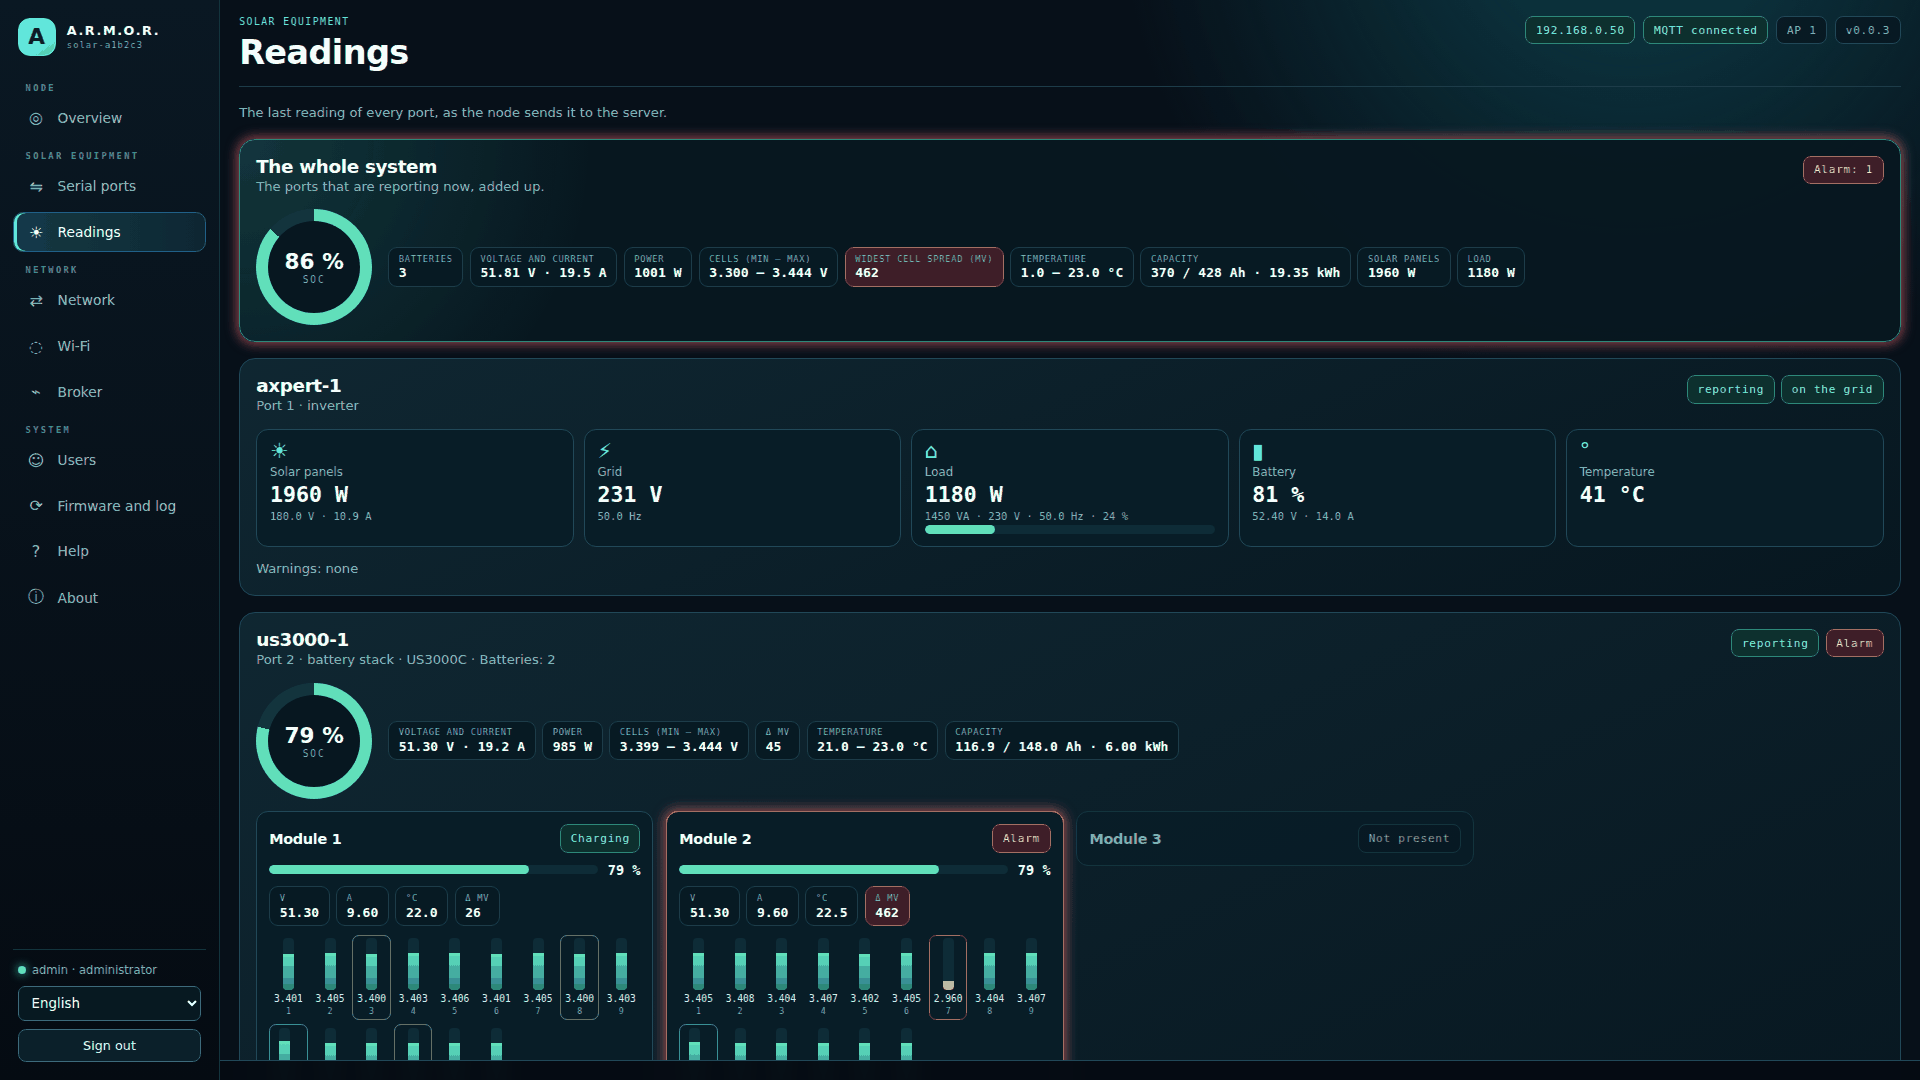
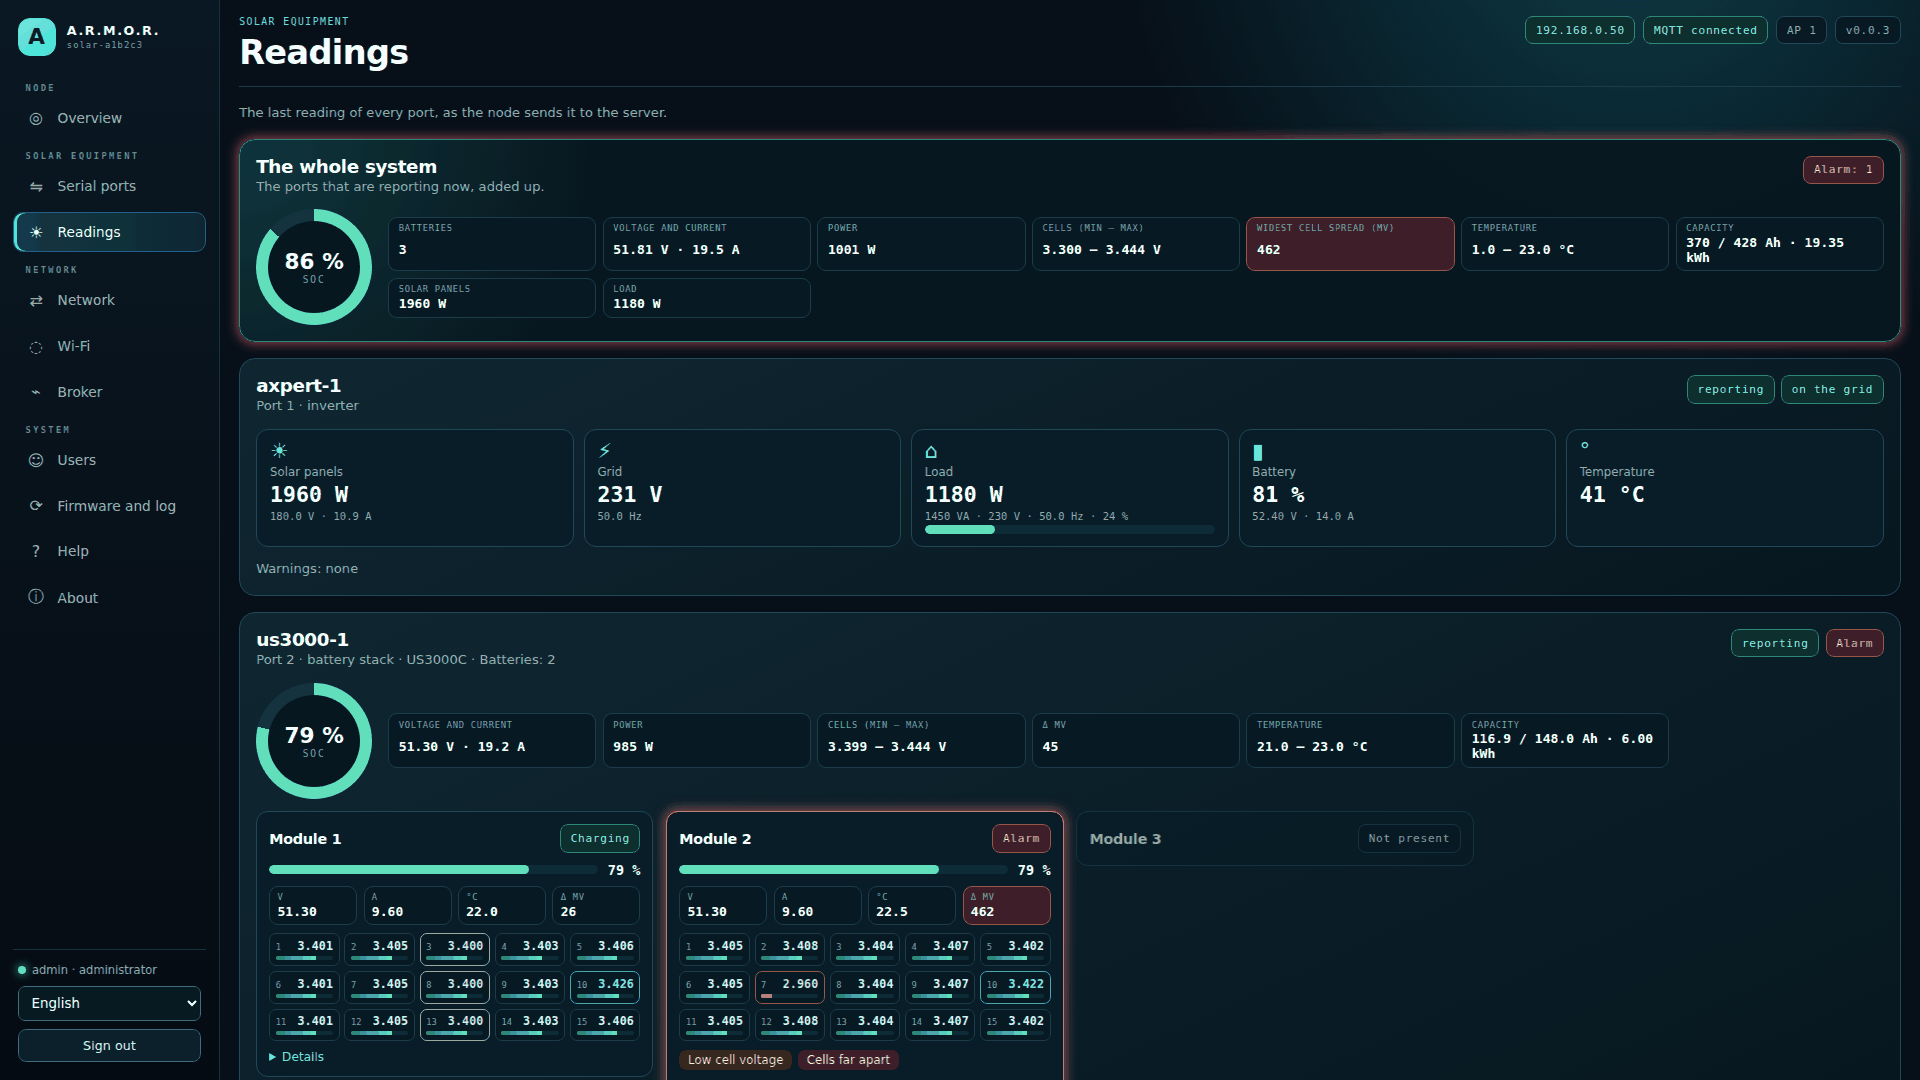
Release 0.7.0 (#61)
* Release 0.7.0

* Keep the fields of a serial port in their columns and refresh the READMEs for 0.7.0

* Take the screenshots again for 0.7.0

* Do not send the empty places after the last battery of a stack

* Test a battery that goes away

* Keep the empty stack of a silent battery port

diff --git a/panel/readings.css b/panel/readings.css
@@ -1,5 +1,8 @@
 /* ARMOR-NODE-SOLAR node panel - the readings page. Copyright (C) 2026 JuanenRac (Electro Hobby 3D). GPL-3.0-or-later.
    The common look is style.css (shared by the nodes); its colours are used here. */
+/* the fields of a port card stay in their own column: a long word in a hint (the broker topic of the device name) is broken instead of running over the next one */
+.field { min-width: 0; align-content: start; }
+.field .hint { overflow-wrap: anywhere; }
 .rv { display: grid; gap: 1rem; }
 .rv-section { display: grid; gap: .8rem; padding: 1rem; border: 1px solid var(--line); border-radius: 16px; background: linear-gradient(155deg, rgba(16, 40, 51, .94), rgba(7, 23, 32, .94)); }
 .rv-section.old .rv-summary, .rv-section.old .rv-modules, .rv-section.old .rv-tiles { opacity: .55; }

diff --git a/tests/test_solar.cpp b/tests/test_solar.cpp
@@ -251,8 +251,8 @@ static void test_pylontech_cells_and_capacity() {
   armor::json::Value doc;
   CHECK(armor::json::parse(json_text, doc) && doc.get("model")->text == "US3000C" && doc.get("cycles")->number == 340 && doc.get("full_capacity_ah")->number == 148.0);
   const armor::json::Value* stack = doc.get("stack");
-  CHECK(stack != nullptr && stack->items.size() == 3 && stack->items[0].get("cells_v")->items.size() == 15 && stack->items[0].get("cycles")->number == 312);
-  CHECK(stack->items[1].get("cells_v") == nullptr && stack->items[2].get("cells_v") == nullptr);
+  CHECK(stack != nullptr && stack->items.size() == 2 && stack->items[0].get("cells_v")->items.size() == 15 && stack->items[0].get("cycles")->number == 312);   // the empty place after the last battery is not sent
+  CHECK(stack->items[1].get("cells_v") == nullptr);
 }
 
 static void test_pylontech_real_formats() {
@@ -560,7 +560,20 @@ static void test_messages() {
   pylontech::parse_pwr(kPwr, modules);
   const std::string battery = battery_json("solar-1", "us3000-1", 99, modules);
   CHECK(armor::json::parse(battery, document) && document.get("kind")->text == "battery" && document.get("modules")->number == 2 && document.get("soc_percent")->number == 88);
-  CHECK(document.get("state")->text == "discharging" && document.get("stack")->items.size() == 3 && document.get("alarm")->boolean == false);
+  CHECK(document.get("state")->text == "discharging" && document.get("stack")->items.size() == 2 && document.get("alarm")->boolean == false);
+  // the console's sixteen places: only up to the last battery is sent; an empty place between two is kept, and so is one a battery was seen in before
+  {
+    std::vector<pylontech::Module> places(16);
+    for (int i = 0; i < 16; ++i) places[static_cast<std::size_t>(i)].number = i + 1;
+    places[0].present = places[2].present = true;
+    CHECK(armor::json::parse(battery_json("solar-1", "us2000-1", 1, places), document) && document.get("modules")->number == 2);
+    CHECK(document.get("stack")->items.size() == 3 && !document.get("stack")->items[1].get("present")->boolean && document.get("stack")->items[2].get("n")->number == 3);
+    places[2].present = false;
+    CHECK(armor::json::parse(battery_json("solar-1", "us2000-1", 2, places, 3), document) && document.get("stack")->items.size() == 3 && !document.get("stack")->items[2].get("present")->boolean);
+    CHECK(armor::json::parse(battery_json("solar-1", "us2000-1", 3, places), document) && document.get("stack")->items.size() == 1);
+    places[0].present = false;
+    CHECK(armor::json::parse(battery_json("solar-1", "us2000-1", 4, places), document) && document.get("modules")->number == 0 && document.get("stack")->items.empty());
+  }
   CHECK(armor::json::parse(battery_json("solar-1", "us3000-1", 99, {}), document) && document.get("modules")->number == 0 && document.get("state") == nullptr);
 }
 

diff --git a/core/solar_json.hpp b/core/solar_json.hpp
@@ -99,8 +99,16 @@ inline std::string inverter_json(const std::string& node_id, const std::string& 
   return w.str();
 }
 
-// A battery stack's message from the console's table.
-inline std::string battery_json(const std::string& node_id, const std::string& device, std::uint64_t timestamp_ms, const std::vector<pylontech::Module>& modules) {
+// The number of the last battery that is there (0: none).
+inline int last_present(const std::vector<pylontech::Module>& modules) {
+  int last = 0;
+  for (const pylontech::Module& m : modules) if (m.present && m.number > last) last = m.number;
+  return last;
+}
+
+// A battery stack's message from the console's table. The console lists sixteen places whatever is connected: the empty ones after the last battery are not sent. An empty place
+// between two batteries is, and so is one up to `keep_up_to` (a battery seen before that is not there now).
+inline std::string battery_json(const std::string& node_id, const std::string& device, std::uint64_t timestamp_ms, const std::vector<pylontech::Module>& modules, int keep_up_to = 0) {
   const pylontech::Stack s = pylontech::summarise(modules);
   json::Writer w;
   w.begin_object().field("kind", "battery").field("node_id", node_id).field("device", device).key("timestamp_ms").integer(static_cast<long long>(timestamp_ms));
@@ -124,7 +132,9 @@ inline std::string battery_json(const std::string& node_id, const std::string& d
     if (s.discharge_mos >= 0) w.field("discharge_mos", s.discharge_mos);
   }
   w.key("stack").begin_array();
+  const int last = last_present(modules) > keep_up_to ? last_present(modules) : keep_up_to;
   for (const pylontech::Module& m : modules) {
+    if (!m.present && m.number > last) continue;
     w.begin_object().field("n", m.number).field("present", m.present);
     if (m.present) {
       if (!m.model.empty()) w.field("model", m.model);

diff --git a/core/poller.hpp b/core/poller.hpp
@@ -202,7 +202,11 @@ class Poller {
     if (topic.empty()) return false;
     if (driver_ && driver_->inverter()) { InverterExtras extras; extras.warnings_unknown = !driver_->out().warnings_known; payload = inverter_json(node_id_, device_, wall_ms, mode_, status_, warnings_, &extras); }
     else if (kind_ == config::Kind::kVoltronic) { InverterExtras extras; extras.warnings_unknown = dialect_ == Dialect::kRevo || dialect_ == Dialect::kPi41 || dialect_ == Dialect::kPi34 || !warnings_read_; extras.has_pv2 = has_pv2_; extras.pv2 = pv2_; extras.units = units_; extras.serial = serial_; extras.firmware = firmware_; extras.has_ratings = have_ratings_; extras.ratings = ratings_; extras.has_energy = have_energy_; extras.energy_total_wh = energy_wh_; payload = inverter_json(node_id_, device_, wall_ms, mode_, status_, warnings_, &extras); }
-    else payload = battery_json(node_id_, device_, wall_ms, modules_);   // a Pylontech stack or an ANT-BMS (one module)
+    else {   // a Pylontech stack or an ANT-BMS (one module)
+      const int present = last_present(modules_);
+      if (present > highest_seen_) highest_seen_ = present;
+      payload = battery_json(node_id_, device_, wall_ms, modules_, present > 0 ? highest_seen_ : 0);   // with none there: the empty stack
+    }
     ++stats_.readings;
     last_reading_ms_ = last_rx_ms_;
     return true;
@@ -814,6 +818,7 @@ class Poller {
   std::string node_id_, device_;
   std::uint64_t poll_ms_;
   int max_modules_;
+  int highest_seen_ = 0;   // the highest place a battery has been in since the port started: one that goes away is still told as not there
   int cells_per_cycle_ = 0;
   int bat_cursor_ = 1;                // the module whose cells come next in the rotation
   std::uint32_t cells_wanted_ = 0;    // bit n: this cycle asks the cells of module n

diff --git a/tests/test_system.cpp b/tests/test_system.cpp
@@ -401,10 +401,16 @@ static void test_rs485_faults() {
   {
     sim::PylontechRs485 bus;
     bus.modules = {sim::Module(), sim::Module()};
-    bus.modules[1].present = false;
     Poller poller(config::Kind::kPylontech, "solar-1", "us3000-1", 2, 4);
-    const std::vector<std::string> m = drive(poller, bus, 0, 20000);
-    CHECK(!m.empty() && has_text(m[0], "\"present\":false") && has_text(m[0], "\"modules\":1"));
+    const std::vector<std::string> both = drive(poller, bus, 0, 20000);
+    CHECK(!both.empty() && has_text(both[0], "\"modules\":2") && !has_text(both[0], "\"present\":false"));
+    bus.modules[1].present = false;
+    const std::vector<std::string> m = drive(poller, bus, 20000, 60000);
+    CHECK(!m.empty() && has_text(m.back(), "\"present\":false") && has_text(m.back(), "\"modules\":1"));
+    // a place that was empty from the start is not sent at all
+    Poller fresh(config::Kind::kPylontech, "solar-1", "us3000-2", 2, 4);
+    const std::vector<std::string> alone = drive(fresh, bus, 60000, 80000);
+    CHECK(!alone.empty() && !has_text(alone[0], "\"present\":false") && has_text(alone[0], "\"modules\":1"));
   }
 }
 

diff --git a/CHANGELOG.md b/CHANGELOG.md
@@ -4,6 +4,10 @@ All notable changes to this project are documented here.
 
 ## [Unreleased]
 
+## [0.7.0] - Readings page and update check fixed, more internal memory and complete battery sheets
+
+- **No more empty batteries in a stack:** the console of a Pylontech lists sixteen places, and a stack of two sent fourteen empty ones that the Readings page drew as cards. The message now ends at the last battery that is there (or was, since the node started); an empty place between two batteries is still told. Same contract. Tried on a computer only.
+- **The fields of a serial port no longer run into each other:** the long help of the device name stays inside its column, where the equipment of the port (an inverter among them) is chosen.
 - **The Readings page is drawn with its own style sheet again:** the node did not register `/readings.css`, so the browser got a 404 and the page came out as a plain list.
 - **The Readings page is easier to read:** the cells of a battery are an even grid (three rows of five for 15 cells, four of four for 16) with the highest and the lowest marked, the batteries of a stack are one, two or four to a row, and the figures are aligned. A stack that says it holds more than its full capacity no longer gives a state of charge of the whole system over 100 %. The stand-in node serves only the files the firmware registers, and can replay recorded readings (`--readings`).
 - **The look for a new version no longer answers "the request is too large":** GitHub's answer about a release grows with its files and its notes and passed the 24 kB the node kept. It is now read piece by piece as it arrives and only the tag and the names and addresses of the files are kept, so its length no longer matters (up to 512 kB). Tested on a computer with a real answer; not tried on a board.

diff --git a/docs/SOLAR_MESSAGES.md b/docs/SOLAR_MESSAGES.md
@@ -39,6 +39,8 @@ and what the module holds when full), and `cycles`; and, when the console tells 
 positive), `console_baud`, `soh_counts` and `soh_abnormal` (the health of each cell, and the cells counted from 0 that are not `Normal`), `counters` (the life counters of `stat`) and `last_event` (the newest entry of the module's event log, as printed); the stack carries `model`, `capacity_ah`, `full_capacity_ah` (the sums of its modules, each left out unless every present module told it; a module that has not told its full capacity counts in `full_capacity_ah` as the others when they all told the same one and name no different model, and then the total is an estimate: it is there while a present module has no `full_capacity_ah`), `energy_kwh` (the remaining
 energy at the mean voltage) and `cycles` (the highest of its modules). A field the battery did not report is left out.
 
+The console lists sixteen places whatever is connected: `stack` ends at the last battery that is there, or has been since the node started, so the empty places after it are not sent (one between two batteries is, with `present: false`).
+
 With no module present the message has `modules: 0` and the empty `stack`, and no other reading: the node says the battery does not answer instead of inventing numbers.
 `current_a` is the sum of the modules (negative discharging), `voltage_v` their mean, `soc_percent` the mean state of charge (left out when unknown: the contract has no nulls).
 

diff --git a/README_jpn.md b/README_jpn.md
@@ -22,7 +22,7 @@
   <img src="https://img.shields.io/badge/Language-C%2B%2B17-00599c.svg" alt="Language">
   <img src="https://img.shields.io/badge/Devices-Voltronic%20%C2%B7%20Pylontech-ffb020.svg" alt="Devices">
   <img src="https://img.shields.io/badge/Tests-35%20host%20programs-2ea44f.svg" alt="Tests">
-  <img src="https://img.shields.io/badge/Version-0.6.9-0f6cbd.svg" alt="Version">
+  <img src="https://img.shields.io/badge/Version-0.7.0-0f6cbd.svg" alt="Version">
   <img src="https://img.shields.io/badge/Maturity-functional-00E5FF.svg" alt="Maturity">
 </p>
 
@@ -36,7 +36,7 @@
 
 | | |
 |---|---|
-| バージョン | `0.6.9` |
+| バージョン | `0.7.0` |
 | 成熟度 | 機能する |
 | 役割 | ESP32-S3 用ソーラーフィールドノード：インバーターとバッテリー（ファミリー：Field Nodes、親：ARMOR-COMMON） |
 | 技術 | C++17, ESP-IDF 5.5.5, ESP32-S3 |

diff --git a/README_deu.md b/README_deu.md
@@ -22,7 +22,7 @@
   <img src="https://img.shields.io/badge/Language-C%2B%2B17-00599c.svg" alt="Sprache">
   <img src="https://img.shields.io/badge/Devices-Voltronic%20%C2%B7%20Pylontech-ffb020.svg" alt="Devices">
   <img src="https://img.shields.io/badge/Tests-35%20host%20programs-2ea44f.svg" alt="Tests">
-  <img src="https://img.shields.io/badge/Version-0.6.9-0f6cbd.svg" alt="Version">
+  <img src="https://img.shields.io/badge/Version-0.7.0-0f6cbd.svg" alt="Version">
   <img src="https://img.shields.io/badge/Maturity-functional-00E5FF.svg" alt="Reifegrad">
 </p>
 
@@ -36,7 +36,7 @@
 
 | | |
 |---|---|
-| Version | `0.6.9` |
+| Version | `0.7.0` |
 | Reifegrad | Funktionsfähig |
 | Rolle | Solar-Feldknoten für ESP32-S3: Wechselrichter und Batterien (Familie: Field Nodes, übergeordnet: ARMOR-COMMON) |
 | Technik | C++17, ESP-IDF 5.5.5, ESP32-S3 |

diff --git a/README_fra.md b/README_fra.md
@@ -22,7 +22,7 @@
   <img src="https://img.shields.io/badge/Language-C%2B%2B17-00599c.svg" alt="Langage">
   <img src="https://img.shields.io/badge/Devices-Voltronic%20%C2%B7%20Pylontech-ffb020.svg" alt="Devices">
   <img src="https://img.shields.io/badge/Tests-35%20host%20programs-2ea44f.svg" alt="Tests">
-  <img src="https://img.shields.io/badge/Version-0.6.9-0f6cbd.svg" alt="Version">
+  <img src="https://img.shields.io/badge/Version-0.7.0-0f6cbd.svg" alt="Version">
   <img src="https://img.shields.io/badge/Maturity-functional-00E5FF.svg" alt="Maturité">
 </p>
 
@@ -36,7 +36,7 @@
 
 | | |
 |---|---|
-| Version | `0.6.9` |
+| Version | `0.7.0` |
 | Maturité | Fonctionnel |
 | Rôle | Nœud de terrain solaire pour ESP32-S3 : onduleurs et batteries (famille : Field Nodes, parent : ARMOR-COMMON) |
 | Technologie | C++17, ESP-IDF 5.5.5, ESP32-S3 |

diff --git a/README_spa.md b/README_spa.md
@@ -22,7 +22,7 @@
   <img src="https://img.shields.io/badge/Language-C%2B%2B17-00599c.svg" alt="Lenguaje">
   <img src="https://img.shields.io/badge/Devices-Voltronic%20%C2%B7%20Pylontech-ffb020.svg" alt="Devices">
   <img src="https://img.shields.io/badge/Tests-35%20host%20programs-2ea44f.svg" alt="Pruebas">
-  <img src="https://img.shields.io/badge/Version-0.6.9-0f6cbd.svg" alt="Versión">
+  <img src="https://img.shields.io/badge/Version-0.7.0-0f6cbd.svg" alt="Versión">
   <img src="https://img.shields.io/badge/Maturity-functional-00E5FF.svg" alt="Madurez">
 </p>
 
@@ -36,7 +36,7 @@
 
 | | |
 |---|---|
-| Versión | `0.6.9` |
+| Versión | `0.7.0` |
 | Madurez | Funcional |
 | Función | Nodo de campo solar para ESP32-S3: inversores y baterías (familia: Field Nodes, padre: ARMOR-COMMON) |
 | Tecnología | C++17, ESP-IDF 5.5.5, ESP32-S3 |

diff --git a/README_ita.md b/README_ita.md
@@ -22,7 +22,7 @@
   <img src="https://img.shields.io/badge/Language-C%2B%2B17-00599c.svg" alt="Linguaggio">
   <img src="https://img.shields.io/badge/Devices-Voltronic%20%C2%B7%20Pylontech-ffb020.svg" alt="Devices">
   <img src="https://img.shields.io/badge/Tests-35%20host%20programs-2ea44f.svg" alt="Test">
-  <img src="https://img.shields.io/badge/Version-0.6.9-0f6cbd.svg" alt="Versione">
+  <img src="https://img.shields.io/badge/Version-0.7.0-0f6cbd.svg" alt="Versione">
   <img src="https://img.shields.io/badge/Maturity-functional-00E5FF.svg" alt="Maturità">
 </p>
 
@@ -36,7 +36,7 @@
 
 | | |
 |---|---|
-| Versione | `0.6.9` |
+| Versione | `0.7.0` |
 | Maturità | Funzionale |
 | Ruolo | Nodo di campo solare per ESP32-S3: inverter e batterie (famiglia: Field Nodes, padre: ARMOR-COMMON) |
 | Tecnologia | C++17, ESP-IDF 5.5.5, ESP32-S3 |
